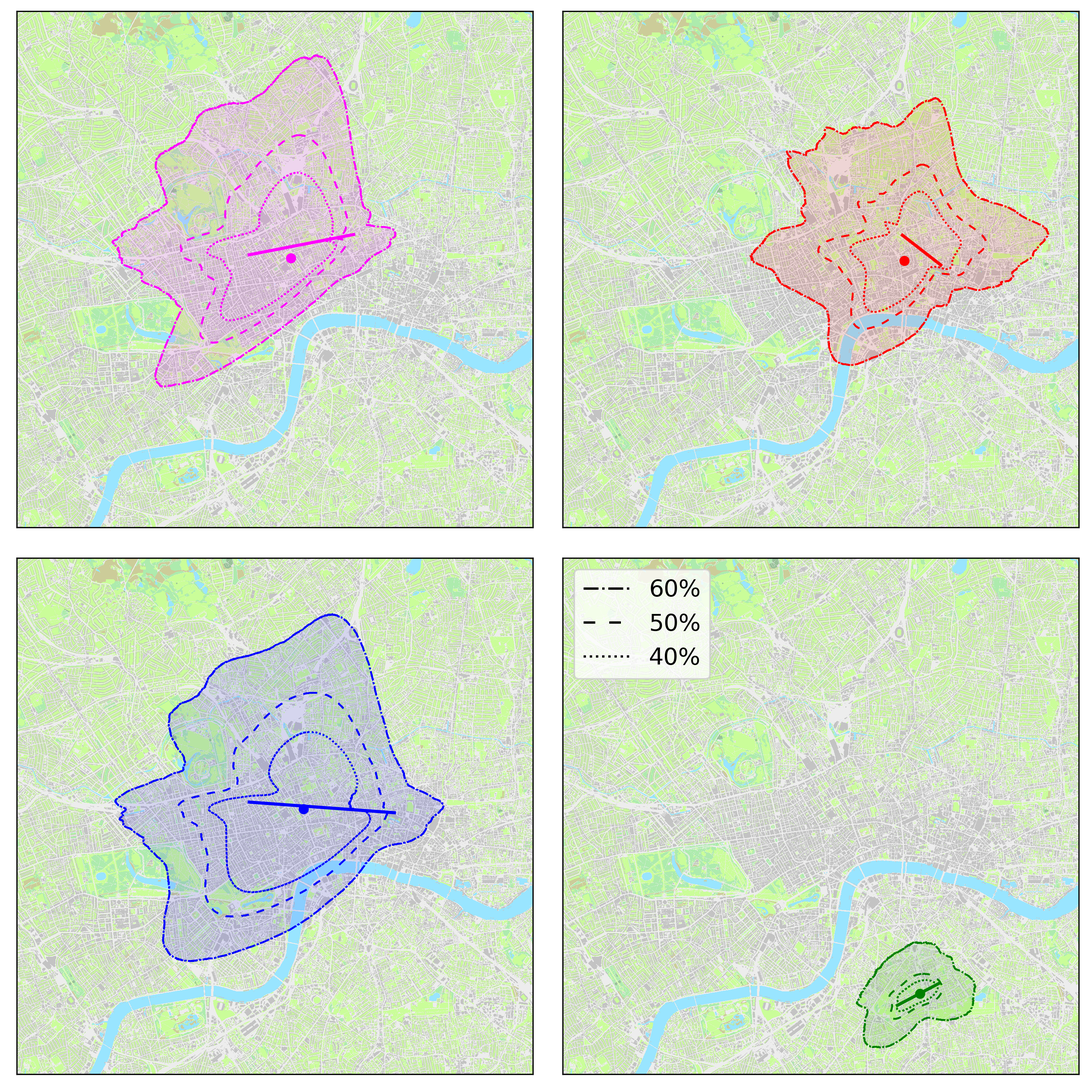
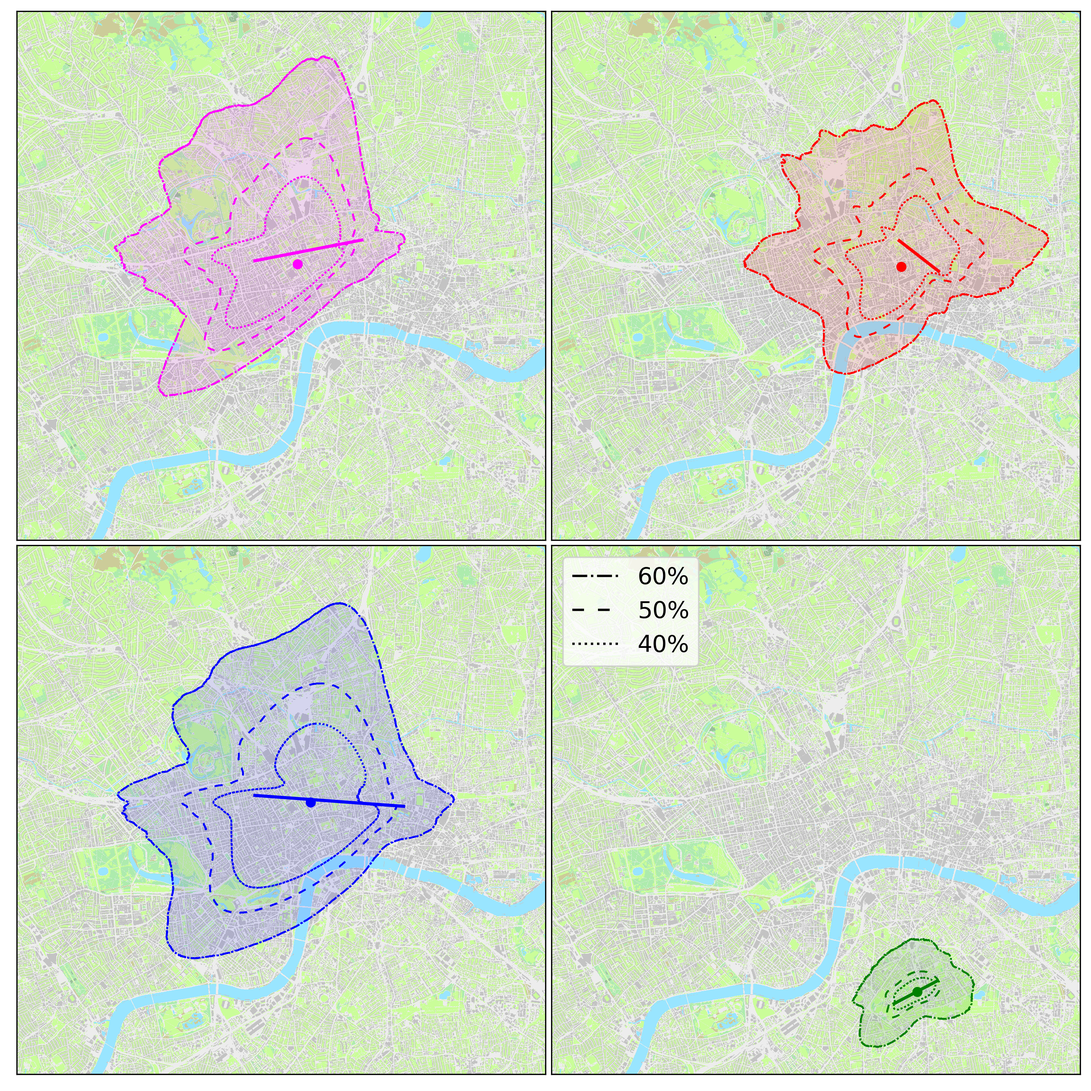
reduce white space around subplots

diff --git a/scint_fp/functions/combine_rasters/sa_lines_combine_raster.py b/scint_fp/functions/combine_rasters/sa_lines_combine_raster.py
@@ -299,9 +299,8 @@ def plot_sa_lines_combined_raster_panels(file_list,
 
     plt.legend(handles=handles, loc='upper left')
 
-    # ToDo: fix the amound of white space around the subplots here
-
     plt.tight_layout()
+    fig.subplots_adjust(hspace=0.01, wspace=0.01)
 
     plt.savefig(save_path + 'sa_lines_combine_panels.png', bbox_inches='tight', dpi=300)
     # plt.show()
